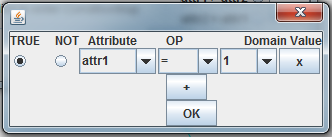
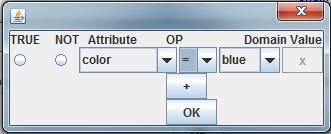
Added more to help menu, changed some pictures to include beter examples

diff --git a/src/javahelp/panes/domainpane.html b/src/javahelp/panes/domainpane.html
@@ -4,8 +4,11 @@
 	<H1>Attribute Domains</H1>
 	<hr>
 	
-	<p>Add Domains to each of the attributes by selecting the text area to the right of the attribute and entering a list of comma separated domain values.
+	<p>Add <a href="../help/glossary.html#domain">Domains</a> to each of the attributes by selecting the text area to the right of the attribute and entering a list of comma separated domain values.
 	</p>
+	
+	<br><center><img src="../pics/domains.PNG"/></center>
+	<br>
 	
 	<br>
 	<H2>Domains in the CI Network</H2>

diff --git a/src/javahelp/panes/setupgraphpane.html b/src/javahelp/panes/setupgraphpane.html
@@ -42,7 +42,7 @@
 	<td width=30%>PICKING
 	</td>
 	<td width=70%>
-	Click an Attribute and drag it to the desired location within the graph view.
+	Select an Attribute and drag it to the desired location within the graph view.
 	</td>
 	</tr>
 	
@@ -50,7 +50,7 @@
 	<td width=30%>ANNOTATING
 	</td>
 	<td width=70%>
-	Right click on an edge in order to add a preference condition. 
+	Select an Attribute or an edge in order to add a preference condition. 
 	</td>
 	</tr>
 

diff --git a/src/javahelp/panes/projectpane.html b/src/javahelp/panes/projectpane.html
@@ -5,9 +5,14 @@
 	<hr>
 	
 	<p>Start by entering a name for your project into the <em>Project Name</em> field.
+	<br>
+	<center><img src="../pics/projectname.PNG"/></center>
 	</p>
 	
+	<br>
 	<p>Then select a <em>Model Checker</em> from the drop-down box</p>
+	<br>
+	<center><img src="../pics/modelchecker.PNG"/></center>
 	<table width=98% border=0 cellpadding=5>
 	<tr valign="top">
 	<td width=35%>MODEL CHECKER 0

diff --git a/src/javahelp/panes/preferencepane.html b/src/javahelp/panes/preferencepane.html
@@ -20,8 +20,8 @@
 	<table width=98% border=0 cellpadding=5>
 	
 	<tr valign="top">
-	<td width=30%>Stakeholder Drop-down Menu
-	<td width=70%>New preferences will be attached to the Stakeholder shown in the drop-down menu
+	<td width=30%>Stakeholder Drop-down Menu (Multiple stakeholder projects only)
+	<td width=70%>New preferences will be attached to the Stakeholder shown in the drop-down menu.
 	</td>
 	</tr>
 	

diff --git a/src/javahelp/panes/attributepane.html b/src/javahelp/panes/attributepane.html
@@ -12,6 +12,9 @@
 	<center><img src="../pics/plus.png"/></center>
 	</p>
 	
+	<br><center><img src="../pics/attributes.PNG"/></center>
+	<br>
+	
 	<p>Attributes can be removed from the project by selecting the <em>x button</em> to the right of the Attribute to be removed.
 	
 </BODY>
